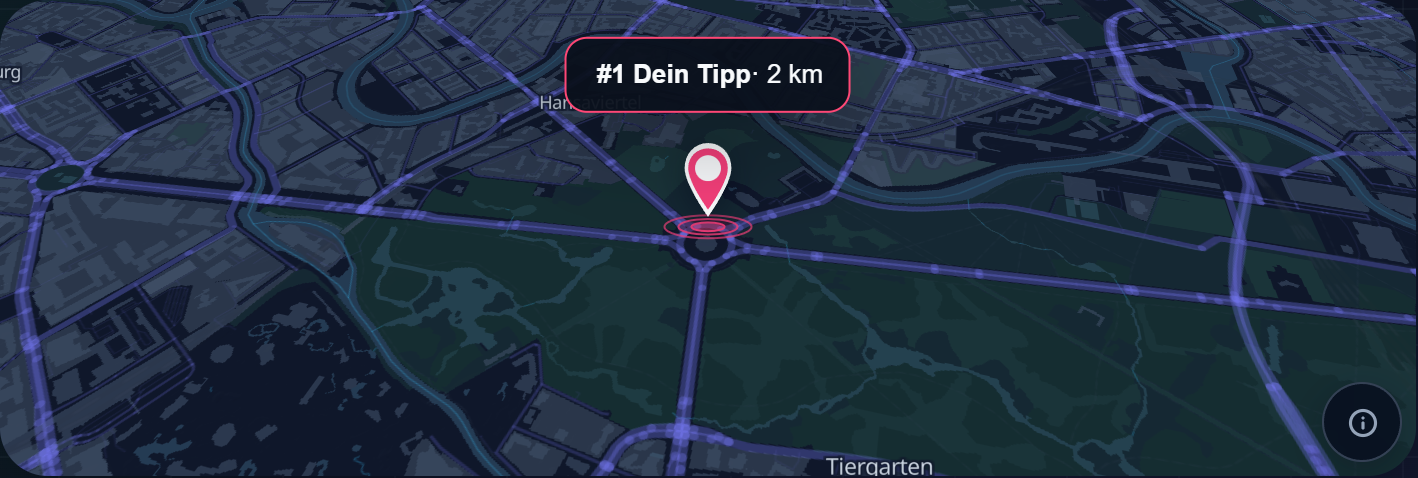
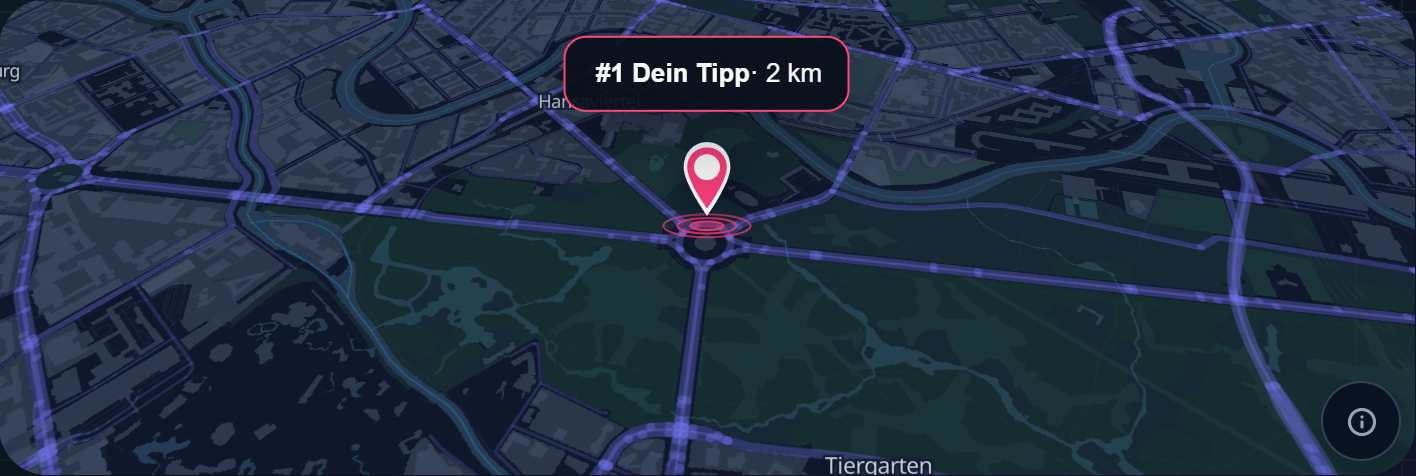
fix: align homepage map poster handoff

diff --git a/components/HomeMapPreview.tsx b/components/HomeMapPreview.tsx
@@ -96,6 +96,7 @@ export function HomeMapPreview() {
   const previewRef = useRef<HTMLDivElement>(null);
   const connectorRef = useRef<SVGLineElement>(null);
   const [previewMode, setPreviewMode] = useState<"animated" | "static" | "legacy" | "source">("animated");
+  const [liveSurfaceReady, setLiveSurfaceReady] = useState(false);
   const [liveReady, setLiveReady] = useState(false);
   const [liveUnavailable, setLiveUnavailable] = useState(false);
   const [animationStarted, setAnimationStarted] = useState(false);
@@ -108,6 +109,32 @@ export function HomeMapPreview() {
     else if (parameters.get("homeMap") === "static") setPreviewMode("static");
     else setPreviewMode("animated");
   }, []);
+
+  useEffect(() => {
+    if (!liveSurfaceReady || liveUnavailable || previewMode !== "animated") return;
+    let cancelled = false;
+    let firstFrame = 0;
+    let secondFrame = 0;
+    let settleTimer: number | undefined;
+    const settleLayout = async () => {
+      if (document.fonts) await document.fonts.ready;
+      if (cancelled) return;
+      firstFrame = window.requestAnimationFrame(() => {
+        secondFrame = window.requestAnimationFrame(() => {
+          settleTimer = window.setTimeout(() => {
+            if (!cancelled) setLiveReady(true);
+          }, 120);
+        });
+      });
+    };
+    void settleLayout();
+    return () => {
+      cancelled = true;
+      window.cancelAnimationFrame(firstFrame);
+      window.cancelAnimationFrame(secondFrame);
+      if (settleTimer !== undefined) window.clearTimeout(settleTimer);
+    };
+  }, [liveSurfaceReady, liveUnavailable, previewMode]);
 
   useEffect(() => {
     if (!liveReady || liveUnavailable || previewMode !== "animated") return;
@@ -232,7 +259,7 @@ export function HomeMapPreview() {
             previewMode
             targetInfoIndicator="?"
             terrainExaggeration={RESULT_CAMERA_CONFIG.terrainExaggeration.homePreview}
-            onSurfaceReady={() => setLiveReady(true)}
+            onSurfaceReady={() => setLiveSurfaceReady(true)}
             onAnimationComplete={() => setAnimationComplete(true)}
             onUnavailable={() => setLiveUnavailable(true)}
           />

diff --git a/app/globals.css b/app/globals.css
@@ -6656,22 +6656,46 @@ body .punktlandung-lobby-config-section.punktlandung-online-layout .punktlandung
 }
 
 @media (min-width: 1200px) {
-  .punktlandung-home-map-poster-wide { background-image: url("/home-map-preview-laptop-2x.webp"); }
+  .punktlandung-home-map-poster-wide {
+    background-image: image-set(
+      url("/home-map-preview-laptop.webp") 1x,
+      url("/home-map-preview-laptop-1.5x.webp") 1.5x,
+      url("/home-map-preview-laptop-2x.webp") 2x
+    );
+  }
   .punktlandung-home-map-poster-ads { background-image: url("/home-map-preview-laptop-2x-with-ads.webp"); }
 }
 
 @media (min-width: 1400px) and (max-width: 1799px) {
-  .punktlandung-home-map-poster-wide { background-image: url("/home-map-preview-user-laptop-2x.webp"); }
+  .punktlandung-home-map-poster-wide {
+    background-image: image-set(
+      url("/home-map-preview-user-laptop.webp") 1x,
+      url("/home-map-preview-user-laptop-1.5x.webp") 1.5x,
+      url("/home-map-preview-user-laptop-2x.webp") 2x
+    );
+  }
   .punktlandung-home-map-poster-ads { background-image: url("/home-map-preview-user-laptop-2x-with-ads.webp"); }
 }
 
 @media (min-width: 1800px) {
-  .punktlandung-home-map-poster-wide { background-image: url("/home-map-preview-monitor-2x.webp"); }
+  .punktlandung-home-map-poster-wide {
+    background-image: image-set(
+      url("/home-map-preview-monitor.webp") 1x,
+      url("/home-map-preview-monitor-1.5x.webp") 1.5x,
+      url("/home-map-preview-monitor-2x.webp") 2x
+    );
+  }
   .punktlandung-home-map-poster-ads { background-image: url("/home-map-preview-monitor-2x-with-ads.webp"); }
 }
 
 @media (min-width: 1800px) and (max-width: 2999px) and (min-aspect-ratio: 19/10) {
-  .punktlandung-home-map-poster-wide { background-image: url("/home-map-preview-monitor-short-2x.webp"); }
+  .punktlandung-home-map-poster-wide {
+    background-image: image-set(
+      url("/home-map-preview-monitor-short.webp") 1x,
+      url("/home-map-preview-monitor-short-1.5x.webp") 1.5x,
+      url("/home-map-preview-monitor-short-2x.webp") 2x
+    );
+  }
   .punktlandung-home-map-poster-ads { background-image: url("/home-map-preview-monitor-short-2x-with-ads.webp"); }
 }
 
